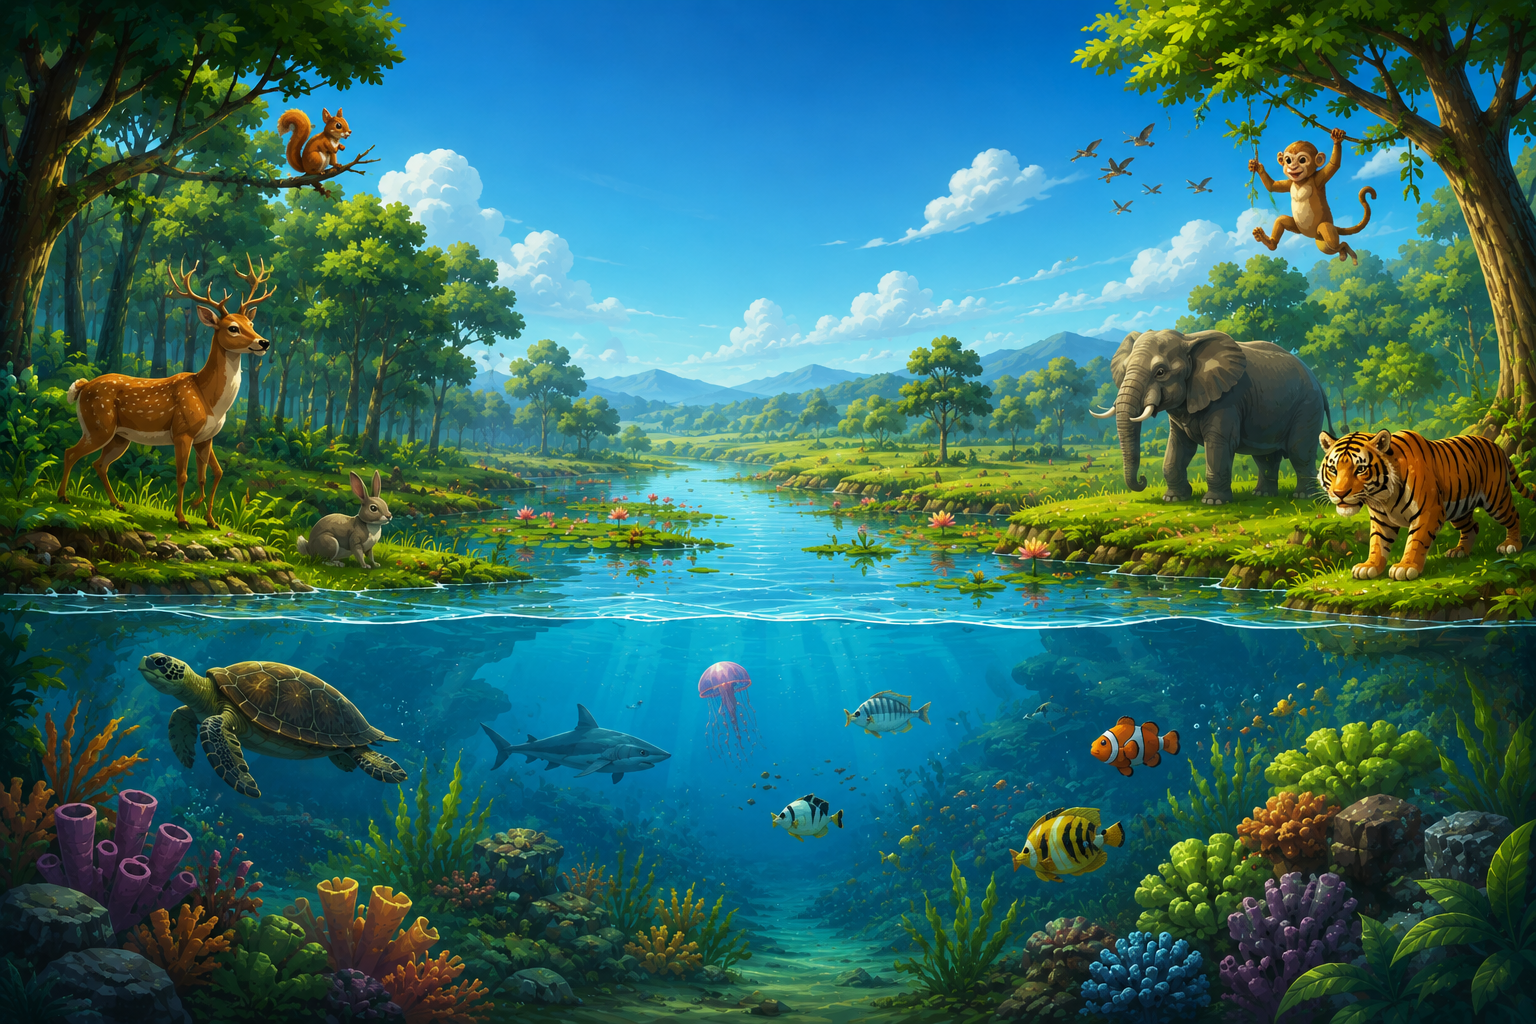
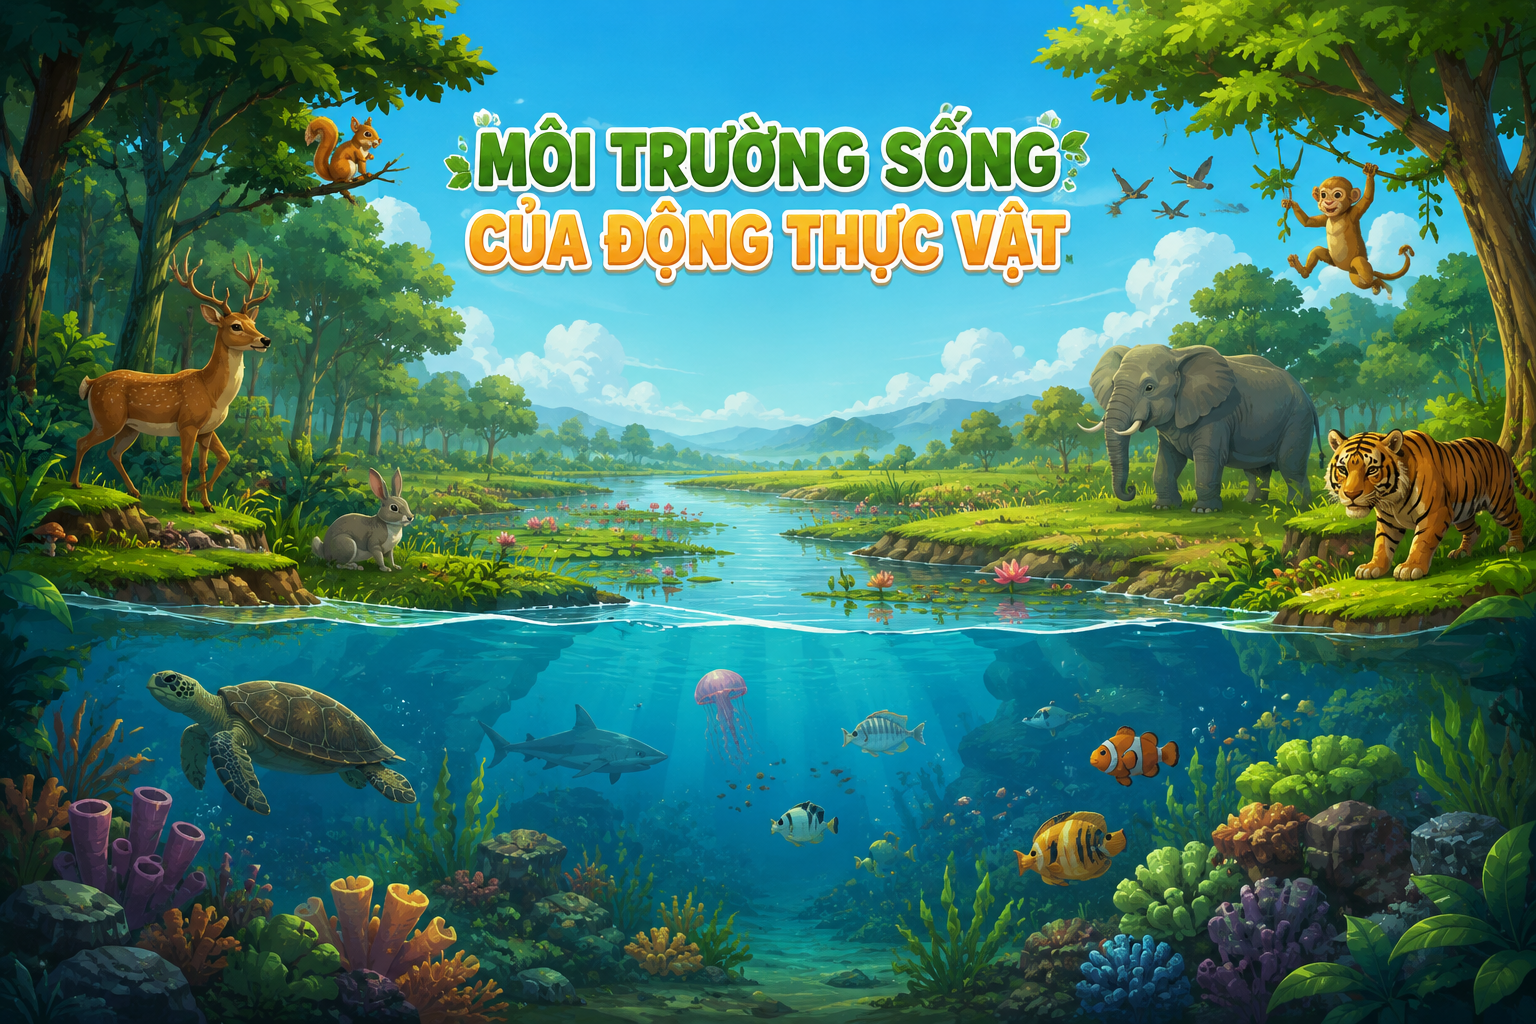
Add assets heart

diff --git a/src/view/systems/RenderSystem.java b/src/view/systems/RenderSystem.java
@@ -52,6 +52,7 @@ public class RenderSystem {
 
     private boolean showHungerBar = true;
     private boolean showThirstBar = true;
+    private boolean showHealthBar = true;
     private boolean showMiniMap = true;
     private boolean showSpeciesName = false;
     private boolean showDebugPath = false;
@@ -96,6 +97,7 @@ public class RenderSystem {
         loadHumanAssets("human_hunter", path + "Human/Hunter/");
         tryLoadAsset("fireball", path + "Human/Hunter/fireball.png");
         tryLoadAsset("dart", path + "Human/Hunter/dart.png");
+        tryLoadAsset("heart", path + "ui/heart.png");
 
         // Plants
         for (int i = 1; i <= 2; i++) tryLoadAsset("grass_" + i, path + "Plant/Grass/Grass_" + i + ".png");
@@ -501,14 +503,14 @@ public class RenderSystem {
                     int labelW = fm.stringWidth(strategyLabel) + 6;
                     int labelH = fm.getHeight();
                     int labelX = (int)animalScreen.x - labelW / 2;
-                    int labelY = (int)animalScreen.y - (int)((animal.getSize() / 2 + 18) * zoom) - labelH;
+                    int labelY = (int)animalScreen.y - (int)((animal.getSize() / 2 + 36) * zoom) - labelH;
                     g2d.setColor(new Color(0, 0, 0, 160));
                     g2d.fillRoundRect(labelX - 1, labelY - 1, labelW + 2, labelH + 2, 4, 4);
                     g2d.setColor(new Color(255, 240, 80));
                     g2d.drawString(strategyLabel, labelX + 3, labelY + fm.getAscent());
                 }
                 if (zoom >= STATUS_BAR_MIN_ZOOM && (showHungerBar || showThirstBar || showSpeciesName)) {
-                    int barW = Math.max(30, (int)(42 * zoom));
+                    int barW = Math.max(24, (int)(32 * zoom));
                     int barH = Math.max(2, Math.min(5, Math.round(2.4f * zoom)));
                     int barX = (int)screenPos.x - barW / 2;
                     int barY = (int)screenPos.y - (int)((animal.getSize() / 2 + 10) * zoom);
@@ -527,17 +529,16 @@ public class RenderSystem {
                         g2d.drawString(text, textX, textY);
                     }
 
-                    if (showHungerBar) {
-                        drawStatusBar(g2d, barX, currentY, barW, barH,
-                                animal.getHunger() / animal.getMaxHunger(),
-                                new java.awt.Color(220, 60, 60));
-                        currentY += barH + 2;
+                    // Vẽ thanh Máu (bằng Tim) ngay phía trên thanh Đói/Khát
+                    if (showHealthBar) {
+                        drawHealthHearts(g2d, barX, currentY - 8 - (int)(6 * zoom), barW, animal.getHealth(), animal.getMaxHealth(), zoom);
                     }
 
-                    if (showThirstBar) {
-                        drawStatusBar(g2d, barX, currentY, barW, barH,
-                                animal.getThirst() / animal.getMaxThirst(),
-                                new java.awt.Color(60, 140, 240));
+                    if (showHungerBar || showThirstBar) {
+                        double hungerRatio = animal.getHunger() / animal.getMaxHunger();
+                        double thirstRatio = animal.getThirst() / animal.getMaxThirst();
+                        drawCombinedStatusBar(g2d, barX, currentY, barW, barH, hungerRatio, thirstRatio);
+                        currentY += barH + 2;
                     }
                 }
             } else if (e instanceof model.items.FireballProjectile) {
@@ -663,6 +664,85 @@ public class RenderSystem {
         int fill = (int) (width * clamped);
         if (fill > 0) {
             g2d.fillRect(x, y, fill, height);
+        }
+    }
+
+    private void drawCombinedStatusBar(Graphics2D g2d, int x, int y, int width, int height,
+                                       double hungerRatio, double thirstRatio) {
+        double clampedHunger = Math.max(0.0, Math.min(1.0, hungerRatio));
+        double clampedThirst = Math.max(0.0, Math.min(1.0, thirstRatio));
+
+        // Border and Background
+        g2d.setColor(java.awt.Color.BLACK);
+        g2d.fillRect(x - 1, y - 1, width + 2, height + 2);
+        g2d.setColor(new java.awt.Color(50, 50, 50));
+        g2d.fillRect(x, y, width, height);
+
+        // Hunger (Left side)
+        int hungerFill = (int) (width * clampedHunger / 2);
+        if (hungerFill > 0) {
+            g2d.setColor(new java.awt.Color(220, 60, 60));
+            g2d.fillRect(x, y, hungerFill, height);
+        }
+
+        // Thirst (Right side)
+        int thirstFill = (int) (width * clampedThirst / 2);
+        if (thirstFill > 0) {
+            g2d.setColor(new java.awt.Color(60, 140, 240));
+            g2d.fillRect(x + width - thirstFill, y, thirstFill, height);
+        }
+
+        // Center Divider
+        g2d.setColor(java.awt.Color.BLACK);
+        g2d.drawLine(x + width / 2, y, x + width / 2, y + height);
+    }
+
+    private void drawHealthHearts(Graphics2D g2d, int x, int y, int barW, double currentHp, double maxHp, float zoom) {
+        BufferedImage heartImg = assetMap.get("heart");
+        if (heartImg == null) return;
+
+        int hpPerHeart = 20;
+        int maxHearts = (int) Math.ceil(maxHp / hpPerHeart);
+        double currentHearts = currentHp / hpPerHeart;
+
+        int baseHeartSize = 8;
+        int heartSize = Math.max(5, (int)(baseHeartSize * zoom));
+        int spacing = Math.max(1, (int)(1 * zoom));
+        int maxPerRow = 8;
+        
+        for (int i = 0; i < maxHearts; i++) {
+            int row = i / maxPerRow;
+            int col = i % maxPerRow;
+            
+            // Calculate width of the current row to center it
+            int heartsInThisRow = Math.min(maxPerRow, maxHearts - row * maxPerRow);
+            int rowWidth = heartsInThisRow * heartSize + (heartsInThisRow - 1) * spacing;
+            int startX = x + (barW - rowWidth) / 2;
+            
+            int hx = startX + col * (heartSize + spacing);
+            // Rows grow upwards
+            int hy = y - row * (heartSize + spacing);
+
+            if (currentHearts >= i + 1) {
+                // Full heart
+                g2d.drawImage(heartImg, hx, hy, heartSize, heartSize, null);
+            } else if (currentHearts > i) {
+                // Partial heart - cut width
+                double fraction = currentHearts - i;
+                int partialW = (int) (heartSize * fraction);
+                if (partialW > 0) {
+                    g2d.drawImage(heartImg, 
+                        hx, hy, hx + partialW, hy + heartSize,
+                        0, 0, (int)(heartImg.getWidth() * fraction), heartImg.getHeight(),
+                        null);
+                }
+            } else {
+                // Empty heart silhouette
+                Composite original = g2d.getComposite();
+                g2d.setComposite(AlphaComposite.getInstance(AlphaComposite.SRC_OVER, 0.3f));
+                g2d.drawImage(heartImg, hx, hy, heartSize, heartSize, null);
+                g2d.setComposite(original);
+            }
         }
     }
 
@@ -1257,7 +1337,9 @@ public class RenderSystem {
     public boolean isShowEntitiesOnMinimap() { return showEntitiesOnMinimap; }
     public void setShowEntitiesOnMinimap(boolean showEntitiesOnMinimap) { this.showEntitiesOnMinimap = showEntitiesOnMinimap; }
 
+    public boolean isShowHealthBar() { return showHealthBar; }
+    public void setShowHealthBar(boolean showHealthBar) { this.showHealthBar = showHealthBar; }
+
     public model.entity.Entity getSelectedEntity() { return selectedEntity; }
     public void setSelectedEntity(model.entity.Entity selectedEntity) { this.selectedEntity = selectedEntity; }
-
 }

diff --git a/src/model/plants/Grass.java b/src/model/plants/Grass.java
@@ -31,12 +31,24 @@ public class Grass extends Plant {
     public void update(float deltaTime) {
         if (!isAlive || world == null) return;
         
-        spawnTimer -= deltaTime;
+        float currentDelta = deltaTime;
+        float currentSpawnRadius = SPAWN_RADIUS;
+        int currentMaxNearby = MAX_GRASS_NEARBY;
+
+        if (world.getCurrentSeason() == model.world.World.Season.GROWING) {
+            currentDelta *= 2.0f;
+            currentSpawnRadius *= 1.5f;
+            currentMaxNearby *= 2;
+        } else if (world.getCurrentSeason() == model.world.World.Season.WINTER) {
+            currentDelta *= 0.3f;
+        }
+
+        spawnTimer -= currentDelta;
         if (spawnTimer <= 0) {
             spawnTimer = randomSpawnDelay();
             
             if (world.getSpatialGrid() != null) {
-                List<Entity> nearby = world.getSpatialGrid().getNeighbors(position, SPAWN_RADIUS);
+                List<Entity> nearby = world.getSpatialGrid().getNeighbors(position, currentSpawnRadius);
                 int grassCount = 0;
                 for (Entity e : nearby) {
                     if (e instanceof Grass && e.isAlive()) {
@@ -44,9 +56,9 @@ public class Grass extends Plant {
                     }
                 }
                 
-                if (grassCount < MAX_GRASS_NEARBY) {
+                if (grassCount < currentMaxNearby) {
                     float angle = random.nextFloat() * 2 * (float)Math.PI;
-                    float dist = 20.0f + random.nextFloat() * (SPAWN_RADIUS - 20.0f);
+                    float dist = 20.0f + random.nextFloat() * (currentSpawnRadius - 20.0f);
                     float dx = (float)Math.cos(angle) * dist;
                     float dy = (float)Math.sin(angle) * dist;
                     

diff --git a/src/model/plants/Mushroom.java b/src/model/plants/Mushroom.java
@@ -29,13 +29,25 @@ public class Mushroom extends Plant {
     public void update(float deltaTime) {
         if (!isAlive || world == null) return;
         
-        spawnTimer -= deltaTime;
+        float currentDelta = deltaTime;
+        float currentSpawnRadius = SPAWN_RADIUS;
+        int currentMaxNearby = MAX_MUSHROOMS_NEARBY;
+
+        if (world.getCurrentSeason() == model.world.World.Season.GROWING) {
+            currentDelta *= 2.0f;
+            currentSpawnRadius *= 1.5f;
+            currentMaxNearby *= 2;
+        } else if (world.getCurrentSeason() == model.world.World.Season.WINTER) {
+            currentDelta *= 0.3f;
+        }
+
+        spawnTimer -= currentDelta;
         if (spawnTimer <= 0) {
             spawnTimer = SPAWN_INTERVAL + random.nextFloat() * 10;
             
             // Tìm số lượng Mushroom xung quanh
             if (world.getSpatialGrid() != null) {
-                List<Entity> nearby = world.getSpatialGrid().getNeighbors(position, SPAWN_RADIUS);
+                List<Entity> nearby = world.getSpatialGrid().getNeighbors(position, currentSpawnRadius);
                 int mushroomCount = 0;
                 for (Entity e : nearby) {
                     if (e instanceof Mushroom && e.isAlive()) {
@@ -44,9 +56,9 @@ public class Mushroom extends Plant {
                 }
                 
                 // Nếu chưa đạt tối đa, sinh ra 1 nấm mới
-                if (mushroomCount < MAX_MUSHROOMS_NEARBY) {
+                if (mushroomCount < currentMaxNearby) {
                     float angle = random.nextFloat() * 2 * (float)Math.PI;
-                    float dist = 20.0f + random.nextFloat() * (SPAWN_RADIUS - 20.0f);
+                    float dist = 20.0f + random.nextFloat() * (currentSpawnRadius - 20.0f);
                     float dx = (float)Math.cos(angle) * dist;
                     float dy = (float)Math.sin(angle) * dist;
                     

diff --git a/src/model/plants/FruitTree.java b/src/model/plants/FruitTree.java
@@ -34,7 +34,9 @@ public class FruitTree extends Plant {
         if (!isAlive || world == null) return;
         
         float currentDelta = deltaTime;
-        if (world.getCurrentSeason() == model.world.World.Season.WINTER) {
+        if (world.getCurrentSeason() == model.world.World.Season.GROWING) {
+            currentDelta *= 1.5f; // Rớt quả nhanh hơn 1.5 lần
+        } else if (world.getCurrentSeason() == model.world.World.Season.WINTER) {
             currentDelta *= (1.0f - world.getWinterProgress() * 0.8f); // Chậm tối đa 80%
         }
         

diff --git a/src/view/Sidebar.java b/src/view/Sidebar.java
@@ -57,9 +57,10 @@ public class Sidebar extends JPanel {
         JCheckBox pathCb = new JCheckBox("Hiện đường đi debug (thực thể được chọn)", rs.isShowDebugPath());
         pathCb.setToolTipText("Chọn một con vật rồi bật ô này để xem đường đi, mục tiêu và tên Strategy của nó");
         JCheckBox visionCb = new JCheckBox("Hiện vùng nhìn AI", rs.isShowAIVision());
+        JCheckBox healthCb = new JCheckBox("Hiện máu", rs.isShowHealthBar());
         JCheckBox minimapEntitiesCb = new JCheckBox("Đốm thực thể trên minimap", rs.isShowEntitiesOnMinimap());
 
-        JCheckBox[] cbs = {hungerCb, thirstCb, minimapCb, speciesCb, strategyCb, pathCb, visionCb, minimapEntitiesCb};
+        JCheckBox[] cbs = {healthCb, hungerCb, thirstCb, minimapCb, speciesCb, strategyCb, pathCb, visionCb, minimapEntitiesCb};
         for (JCheckBox cb : cbs) {
             cb.setBackground(new Color(38, 41, 45));
             cb.setForeground(new Color(210, 215, 220));
@@ -69,6 +70,7 @@ public class Sidebar extends JPanel {
             toggleSection.add(cb);
         }
 
+        healthCb.addActionListener(e -> { rs.setShowHealthBar(healthCb.isSelected()); requestFocus(); });
         hungerCb.addActionListener(e -> { rs.setShowHungerBar(hungerCb.isSelected()); requestFocus(); });
         thirstCb.addActionListener(e -> { rs.setShowThirstBar(thirstCb.isSelected()); requestFocus(); });
         minimapCb.addActionListener(e -> { rs.setShowMiniMap(minimapCb.isSelected()); requestFocus(); });

diff --git a/src/core/GameConfig.java b/src/core/GameConfig.java
@@ -90,7 +90,7 @@ public class GameConfig {
     public final int HUNTER_MAX_AMMO = 4;
     public final float HUNTER_SHOOT_RANGE = 240.0f;
     public final float HUNTER_FIRE_COOLDOWN_SECONDS = 0.75f;
-    public final float HUNTER_RELOAD_SECONDS = 2.0f;
+    public final float HUNTER_RELOAD_SECONDS = 5.0f;
     public final float HUNTER_PROJECTILE_SPEED = 430.0f;
     public final float HUNTER_PROJECTILE_SIZE = 12.0f;
     public final float HUNTER_PROJECTILE_DAMAGE = 45.0f;

diff --git a/src/model/living_beings/Deer.java b/src/model/living_beings/Deer.java
@@ -11,7 +11,7 @@ public class Deer extends HerbivoreAnimal {
     private static final float  SIZE              = 30.0f;
     private static final float  BASE_SPEED        = 100.0f;
     private int herdId = 1;
-    private static final double MAX_HEALTH        = 150.0;
+    private static final double MAX_HEALTH        = 160.0;
     private static final double MAX_HUNGER        = 150.0;
     private static final double HUNGER_DECAY_RATE = 0.6;
     private static final double MAX_THIRST        = 130.0;

diff --git a/src/model/living_beings/Rabbit.java b/src/model/living_beings/Rabbit.java
@@ -10,7 +10,7 @@ import java.util.Random;
 public class Rabbit extends HerbivoreAnimal {
     private static final float  SIZE              = 20.0f;
     private static final float  BASE_SPEED        = GameConfig.getInstance().RABBIT_BASE_SPEED;
-    private static final double MAX_HEALTH        = 50.0;
+    private static final double MAX_HEALTH        = 60.0;
     private static final double MAX_HUNGER        = 100.0;
     private static final double HUNGER_DECAY_RATE = 0.5;
     private static final double MAX_THIRST        = 100.0;

diff --git a/src/model/living_beings/Tiger.java b/src/model/living_beings/Tiger.java
@@ -22,7 +22,7 @@ public class Tiger extends CarnivoreAnimal {
         super(position, SIZE, BASE_SPEED);
 
         this.speciesName = "Hổ";
-        this.maxHealth = 250.0f;
+        this.maxHealth = 260.0f;
         this.health = this.maxHealth;
         this.maxHunger = 200.0f;
         this.hunger = this.maxHunger;

diff --git a/src/model/living_beings/Wolf.java b/src/model/living_beings/Wolf.java
@@ -22,7 +22,7 @@ public class Wolf extends CarnivoreAnimal {
         super(position, SIZE, BASE_SPEED);
 
         this.speciesName = "Sói";
-        this.maxHealth = 150.0f;
+        this.maxHealth = 160.0f;
         this.health = this.maxHealth;
         this.maxHunger = 120.0f;
         this.hunger = this.maxHunger;